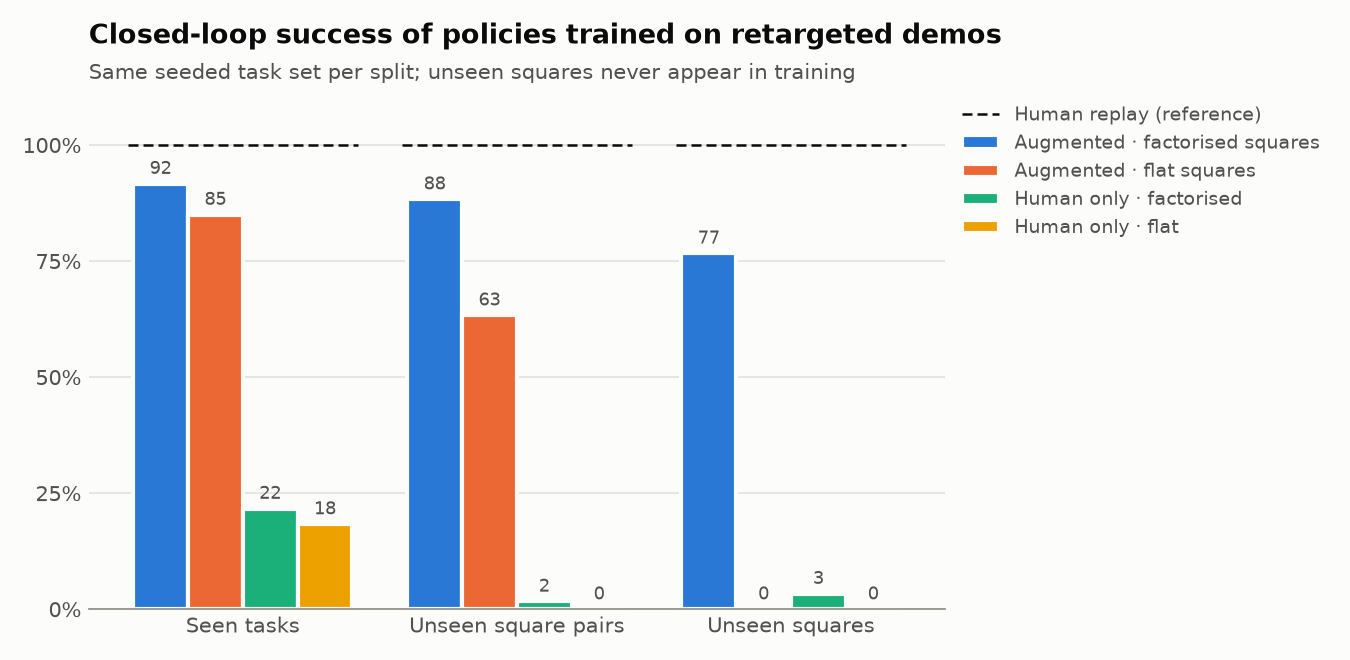
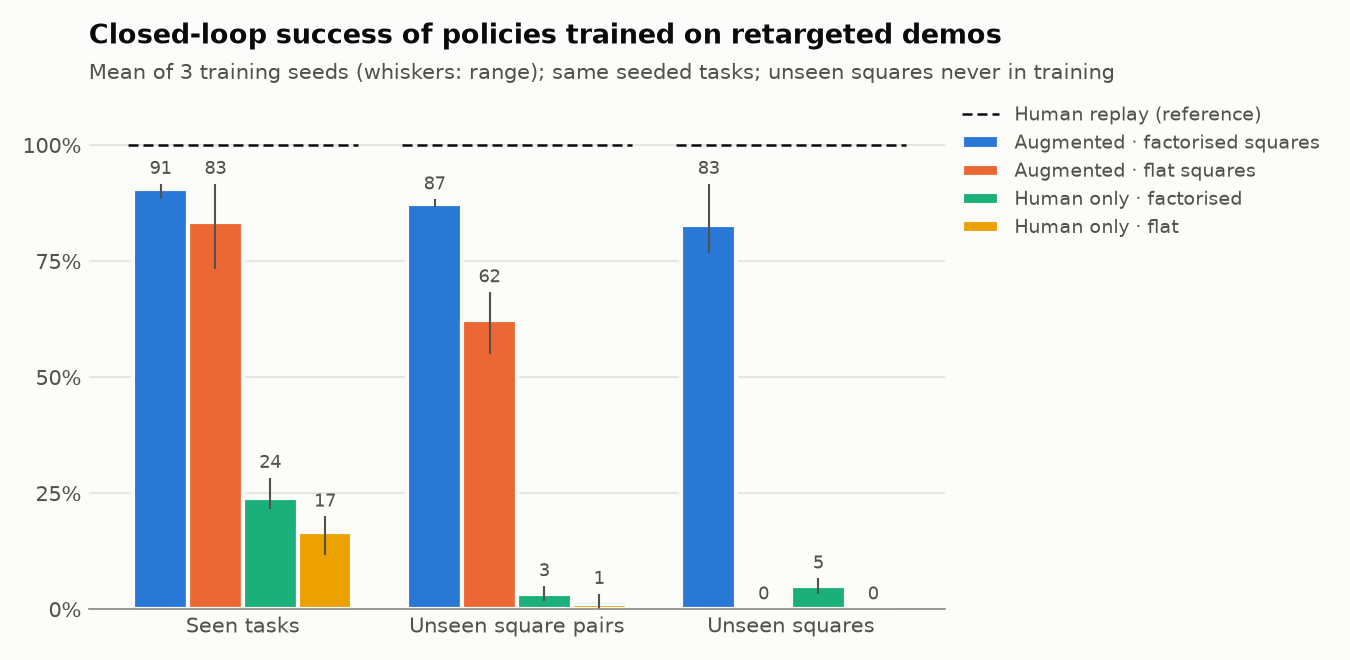
README: policy results over 3 training seeds with ranges

diff --git a/scripts/make_figures.py b/scripts/make_figures.py
@@ -97,8 +97,8 @@ def policies(eval_path="outputs/eval.json", seeds_path="outputs/eval_seeds.json"
     ax.set_ylim(0, 112)
     ax.set_yticks([0, 25, 50, 75, 100], ["0%", "25%", "50%", "75%", "100%"])
     _style(ax, "Closed-loop success of policies trained on retargeted demos",
-           "Same seeded task set per split; unseen squares never appear in training" +
-           (f"; mean of {n_seeds} training seeds, whiskers span them" if n_seeds > 1 else ""))
+           (f"Mean of {n_seeds} training seeds (whiskers: range); " if n_seeds > 1 else "") +
+           "same seeded tasks; unseen squares never in training")
     ax.legend(frameon=False, loc="upper left", bbox_to_anchor=(1.0, 1.0), fontsize=9, labelcolor=INK2)
     fig.tight_layout()
     fig.savefig(DOCS / "fig_policies.png", facecolor=SURFACE)

diff --git a/README.md b/README.md
@@ -30,7 +30,7 @@ only used to test the simulator.
 | Naive retargeting (copy the hand path) | **27.7 %** of 675 demos succeed on the Panda |
 | Object-centric retargeting (keeps the human's timing, path and yaw) | **99.9 %** succeed (674 / 675) |
 | Board-symmetry augmentation | 499 human demos → **3 195** sim-verified training episodes (augmented copies succeed as often as originals: 99.9 % vs 99.3 %) |
-| Policy trained on them, closed loop | **92 % / 88 % / 77 %** on seen tasks / unseen square pairs / squares never seen in training (flat square embeddings: 0 % on unseen squares; no augmentation: ≤ 22 %) |
+| Policy trained on them, closed loop | **91 % / 87 % / 83 %** on seen tasks / unseen square pairs / squares never seen in training, mean of 3 training seeds (flat square embeddings: 0 % on unseen squares; no augmentation: ≤ 24 %) |
 | Whole game | Morphy's *Opera Game* (1858), 33 plies played with my recorded hand motions: **34 / 34** piece moves, **no interventions**, on each of 10 random choices of which demo is replayed per move |
 
 ---
@@ -196,27 +196,27 @@ The instruction is parsed into piece, colour, source and destination; the networ
 end-effector state and predicts 10-step chunks of Cartesian commands (receding horizon). Squares
 are encoded either **factorised** (file embedding + rank embedding) or **flat** (one embedding per
 square). The predicted gripper width is executed as closed or open, because that is all any demo
-ever commands; executing it as predicted instead gives 85 / 78 / 70 % for the best policy, as
-in-between widths near a grasp can reopen the fingers.
+ever commands; executing it as predicted instead gave 85 / 78 / 70 % rather than 92 / 88 / 77 % for
+the best policy (seed 0), as in-between widths near a grasp can reopen the fingers.
 
 <p align="center"><img src="docs/fig_policies.png" width="760"></p>
 
-60 tasks per split, the same seeded tasks and starting positions for every model, one training
-seed each (with n = 60 the standard error is about ±6 points):
+60 tasks per split, the same seeded tasks and starting positions for every model, three training
+seeds each; mean and [range] over the seeds:
 
 | Policy | Training episodes | Seen tasks | Unseen square pairs | Unseen squares |
 |---|---|---|---|---|
 | *Retargeted human replay (reference, not a policy)* | | *100 %* | *100 %* | *100 %* |
-| **Augmented · factorised squares** | 3 195 | **91.7 %** | **88.3 %** | **76.7 %** |
-| Augmented · flat squares | 3 195 | 85.0 % | 63.3 % | 0.0 % |
-| Human only · factorised squares | 499 | 21.7 % | 1.7 % | 3.3 % |
-| Human only · flat squares | 499 | 18.3 % | 0.0 % | 0.0 % |
+| **Augmented · factorised squares** | 3 195 | **90.6 %** [88–92] | **87.2 %** [87–88] | **82.8 %** [77–92] |
+| Augmented · flat squares | 3 195 | 83.3 % [73–92] | 62.2 % [55–68] | 0.0 % [0–0] |
+| Human only · factorised squares | 499 | 23.9 % [22–28] | 3.3 % [2–5] | 5.0 % [3–7] |
+| Human only · flat squares | 499 | 16.7 % [12–20] | 1.1 % [0–3] | 0.0 % [0–0] |
 
 Two things stand out. **Augmentation is what makes learning work**: 499 human demonstrations, one
 per move, are far too few for a policy to learn where 64 squares are, while their symmetric copies
 are enough. And **the square encoding decides generalisation**: with one embedding per square, a
 square never seen in training is simply unknown (0 %); composing it from a seen file and a seen
-rank gets 77 %.
+rank gets 83 %.
 
 <p align="center"><img src="docs/policy_in_action.gif" width="560"><br>
 <em>The factorised policy given only the instruction and the gripper state: a seen task, an unseen
@@ -272,9 +272,10 @@ were never meant to thread between neighbours.
 * Crowded full boards are harder than the sparse boards in the demos; the game script counts
   every intervention (now zero, but the margin around neighbours is a few millimetres).
 * Training the policy on the replays as they were. Once the simulator was fixed, the factorised
-  policy fell to 33 % on seen tasks, against 85 % now. Rollouts began wherever my hand happened
-  to rest, and the grasp yaw had two modes the instruction cannot distinguish (which hand
-  demonstrated), so a regression policy averaged them and approached at a yaw no demo used. A
+  policy fell to 33 % on seen tasks (85 % after the fix, same evaluation). Rollouts began wherever
+  my hand happened to rest, and the grasp yaw had two modes the instruction cannot distinguish
+  (which hand demonstrated), so a regression policy averaged them and approached at a yaw no demo
+  used. A
   policy that can represent several modes (diffusion or a discretised action head) would be the
   principled fix; canonicalising the data was the quick one. (Before the simulator fixes, the
   same recipe gave 77 %; I suspect the buggy, uncoupled fingers forgave misaligned grasps, but did
